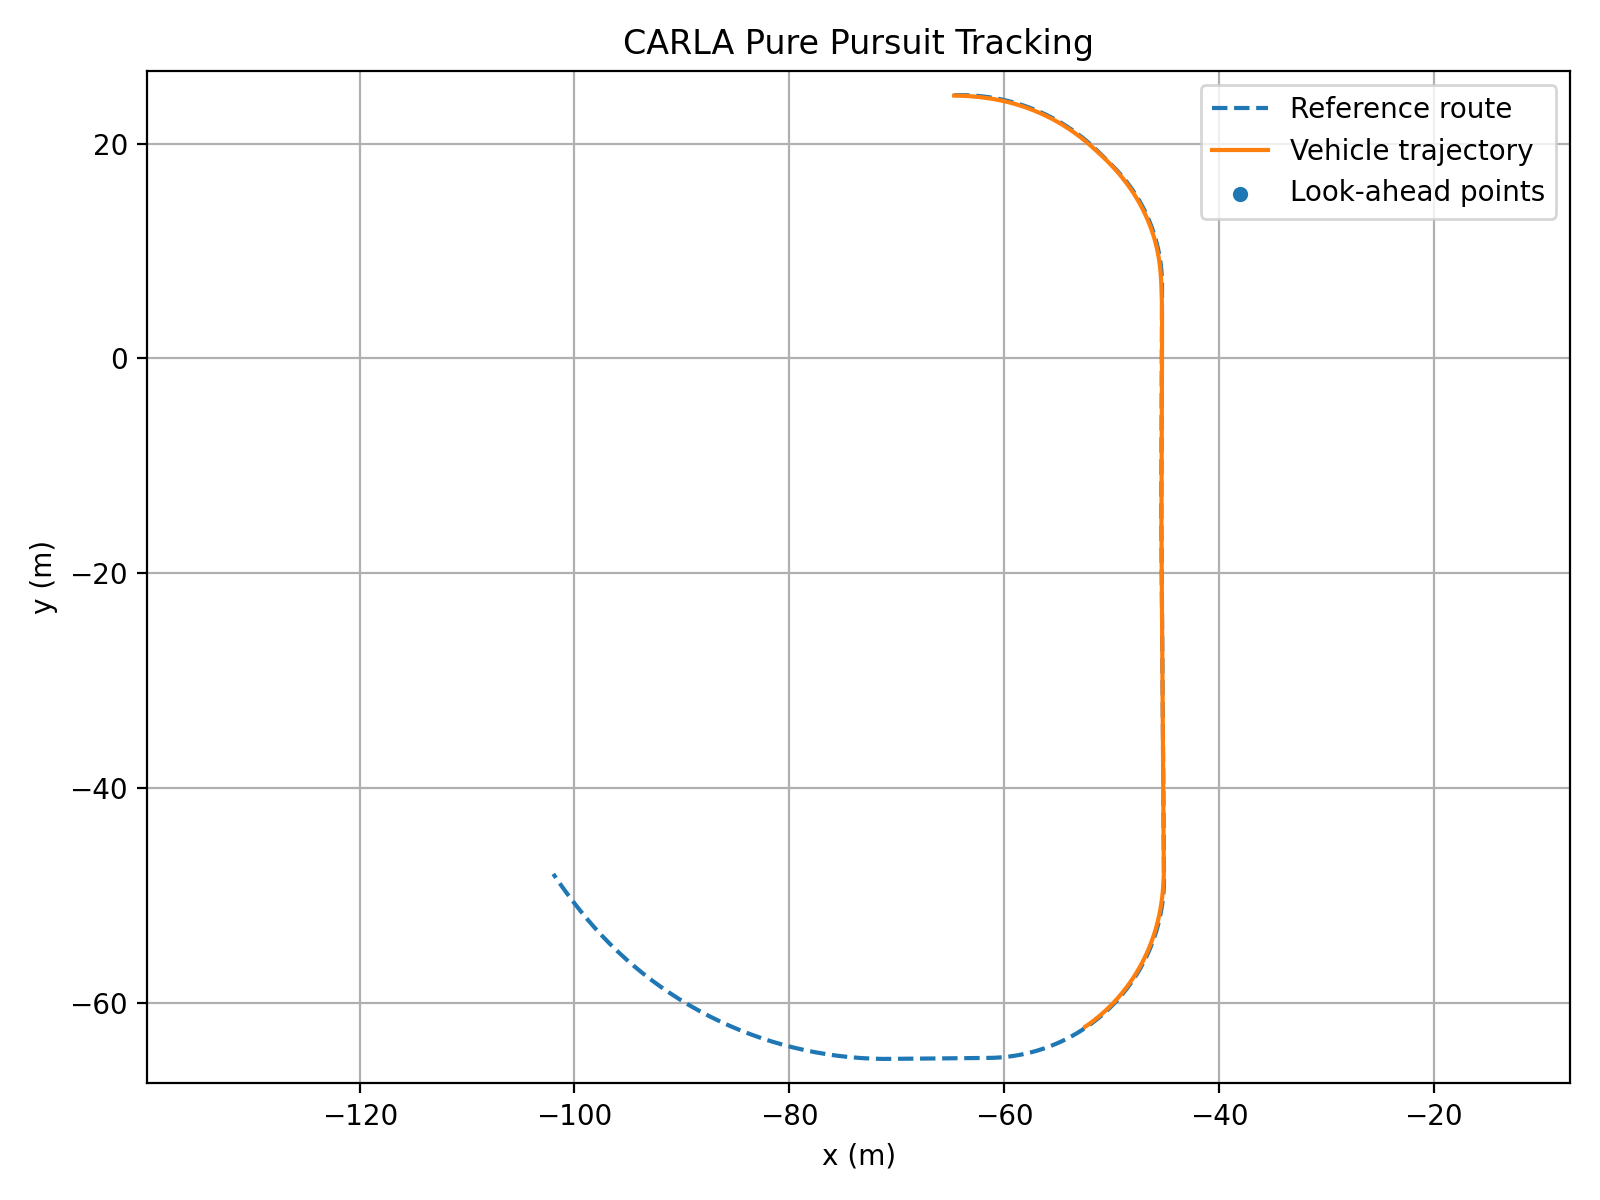
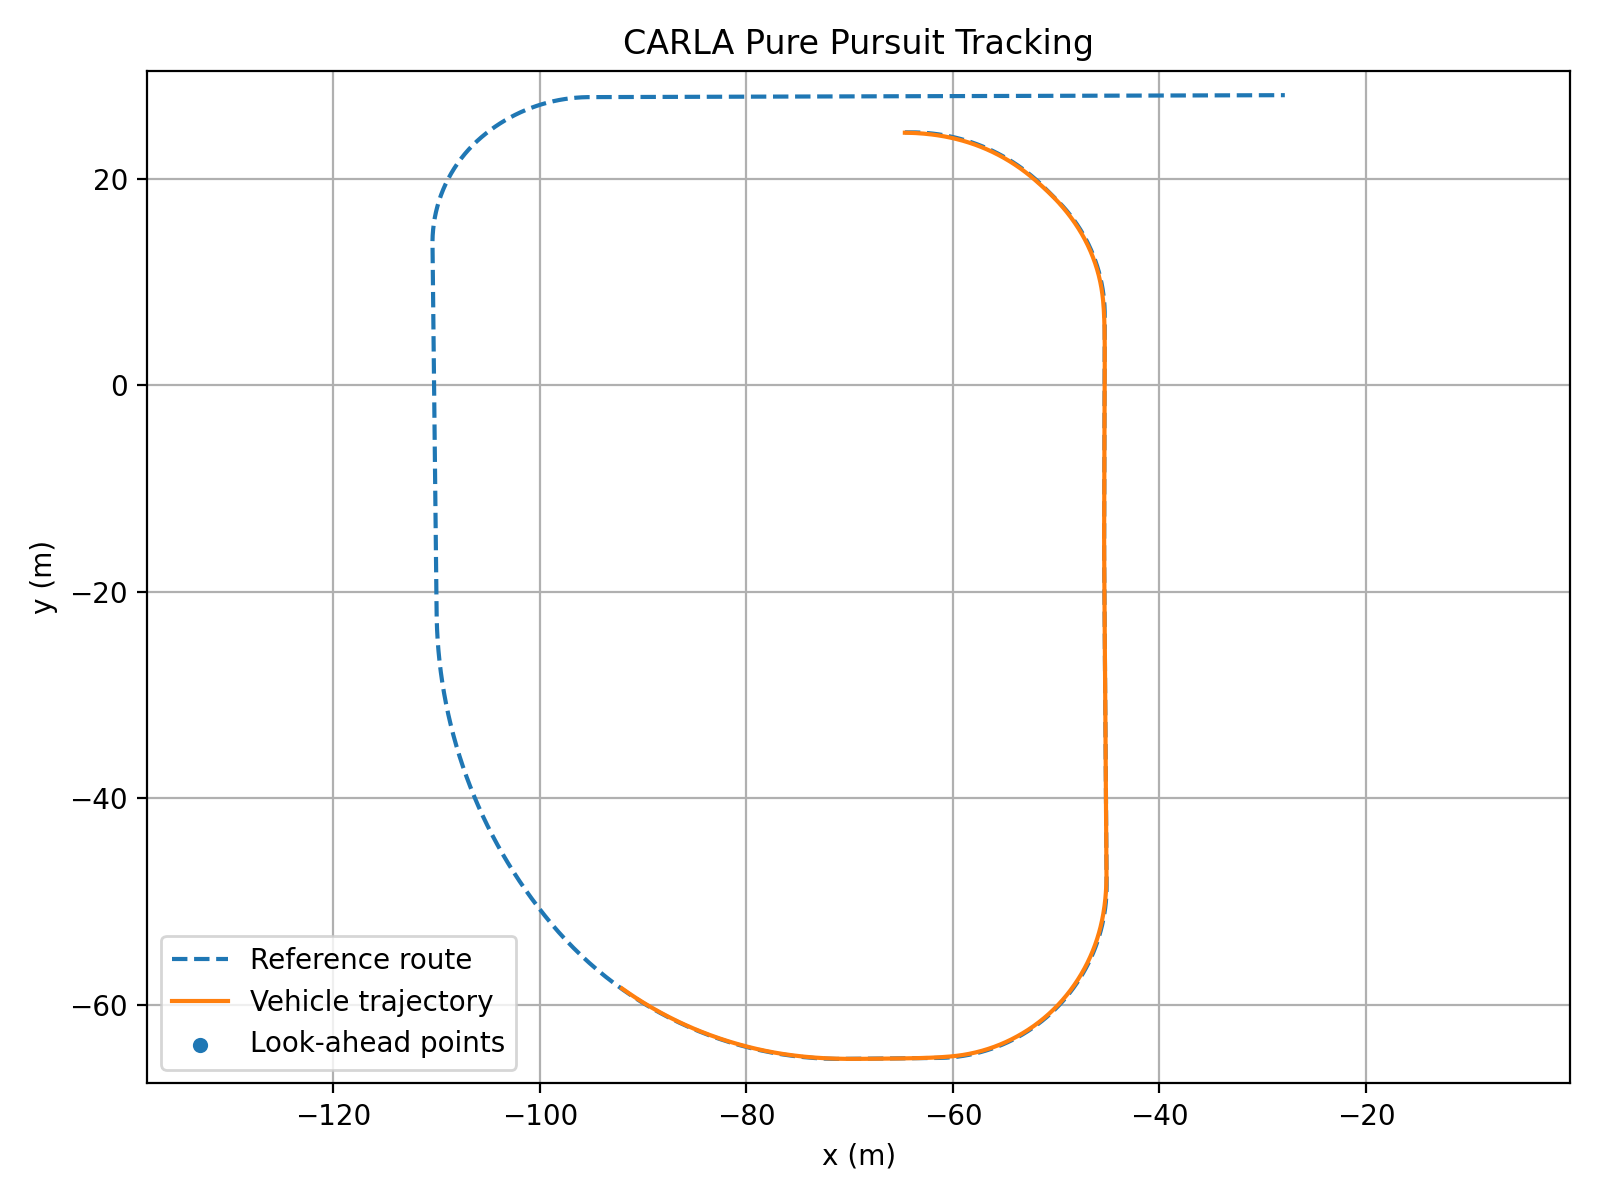
update

diff --git a/pnc_basics/carla_stanley.py b/pnc_basics/carla_stanley.py
@@ -194,7 +194,7 @@ def main():
         carla_map,
         vehicle_location,
         step_distance=0.5,
-        num_points=300
+        num_points=600
     )
 
     cyaw = compute_path_yaw(route_x, route_y)
@@ -222,7 +222,7 @@ def main():
     target_x_hist = []
     target_y_hist = []
 
-    duration = 25.0
+    duration = 35.0
     dt = 0.05
     steps = int(duration / dt)
      
